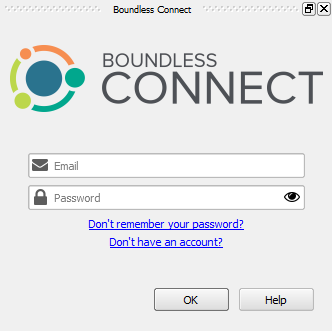
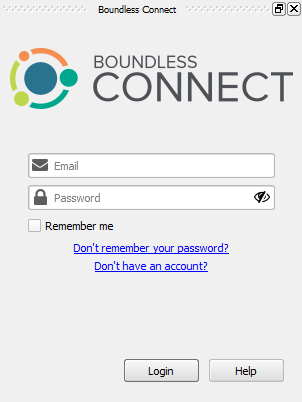
Updates Lesson

diff --git a/boundlessconnect/_lessons/connect_login_search/06_searching_for_knowledge_content.md b/boundlessconnect/_lessons/connect_login_search/06_searching_for_knowledge_content.md
@@ -1,8 +1,9 @@
 After the login, the **Boundless Connect** panel shows a search field and some
-tabs. By default, the **Knowledge** tab is visible. This tab can be used to
+tabs. By default, the **Knowledge** tab is visible already showing all results.
+This tab can be used to
 search for knowledge-based content like Product documentation, Tutorials from
 the learning center, Questions and Answers, Blog posts, and interactive lessons
-for QGIS.
+for QGIS. You can filter the results by providing a keyword.
 
 1. In the search field, type *MGRS* and press **Enter** or click the magnifying
 glass icon.

diff --git a/boundlessconnect/_lessons/connect_login_search/09_search_for_all_resourses.md b/boundlessconnect/_lessons/connect_login_search/09_search_for_all_resourses.md
@@ -4,7 +4,8 @@ without entering any keyword.
 
 In the **Knowledge** tab searching without a keyword will return
 thousands of results, which may end up being useless. On the other hand
-if you filter the search using the categories its another story. For example, selecting the *Lessons* category only, will list all
+if you filter the search using the filter categories, then it makes sense.
+For example, selecting the *Lessons* category only, will list all
 lessons available.
 
 1. Click the widget down arrow to expand the categories.

diff --git a/boundlessconnect/_lessons/connect_login_search/03_enter_username_and_password.md b/boundlessconnect/_lessons/connect_login_search/03_enter_username_and_password.md
@@ -3,7 +3,10 @@ you have used in Boundless Connect Portal in the corresponding fields.
 
 ![enter_credentials.png](enter_credentials.png)
 
-Then, click **OK**.
+If you wish the plugin to remember your credentials in future sessions,
+enable the **Remember me** option.
+
+Click **Login**.
 
 **Note:** If you don't have a *Boundless Connect* account, click the **Don't
 have an account link?** to get one. It's free!
